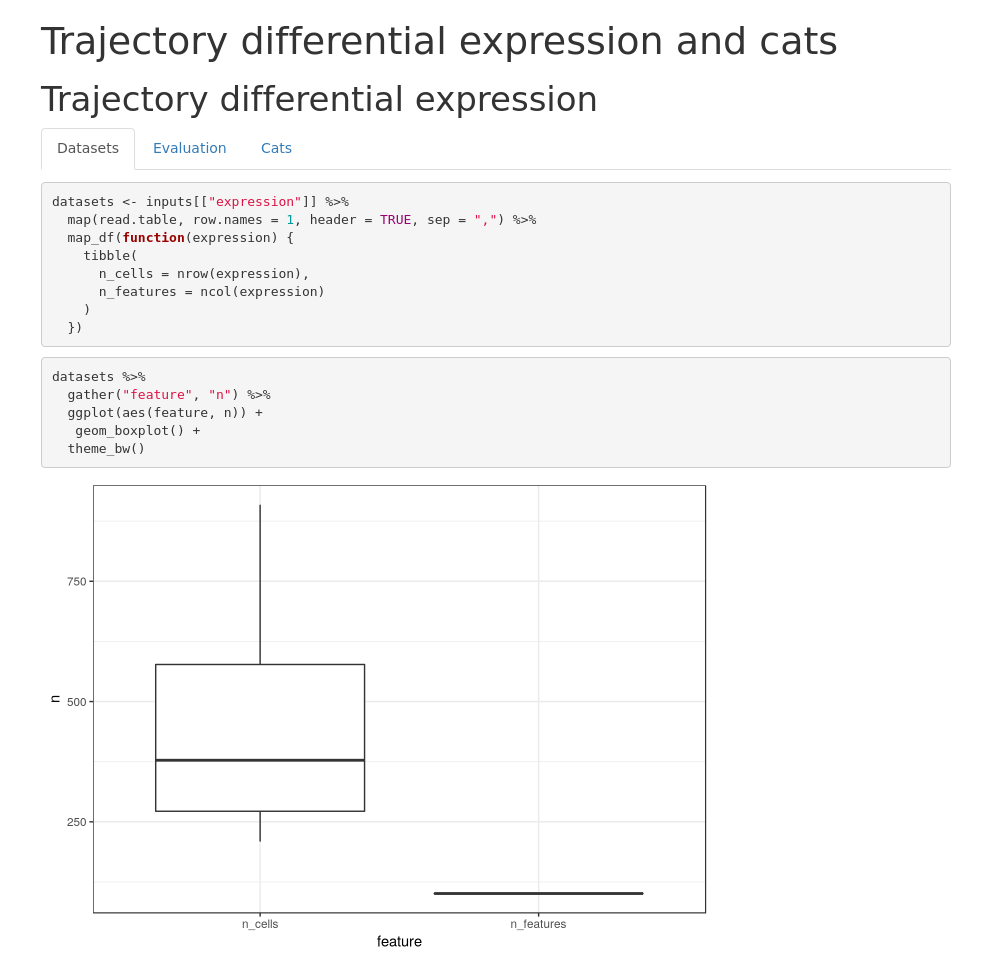
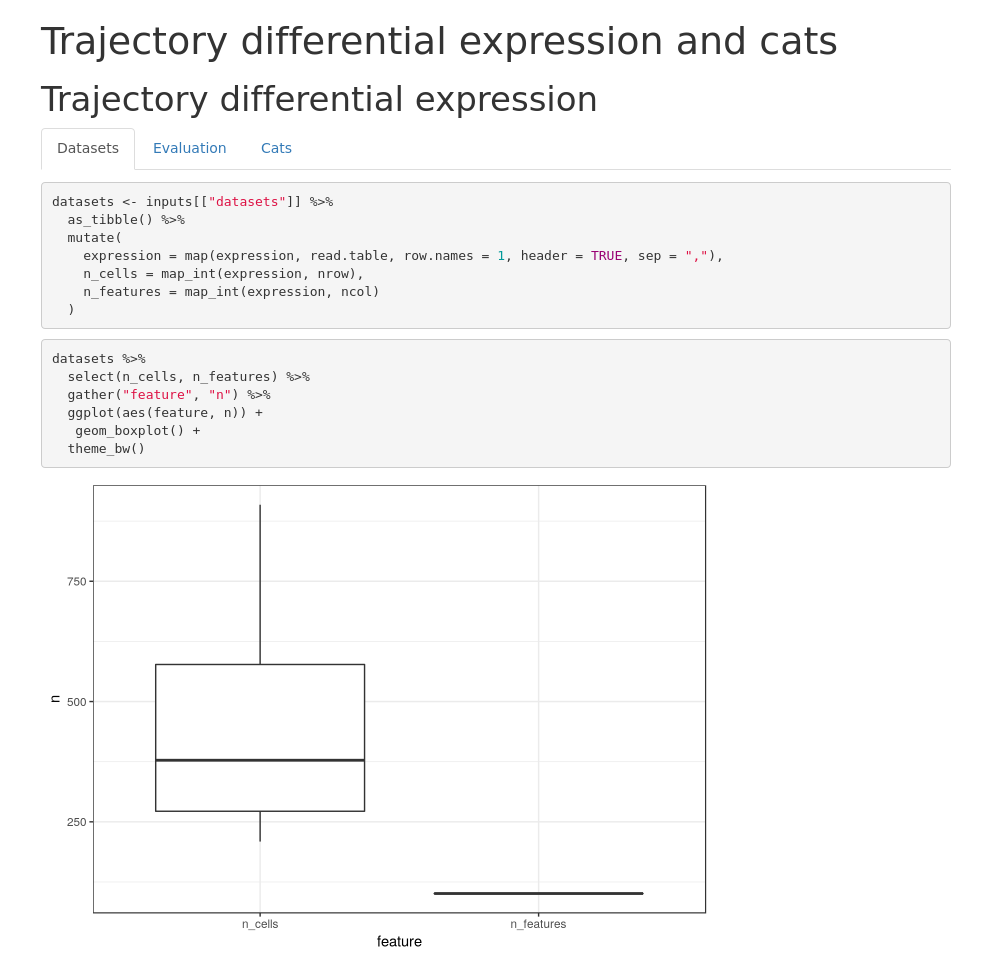
update deployment

diff --git a/komparo/dummy/index.html b/komparo/dummy/index.html
@@ -129,15 +129,15 @@ $(document).ready(function () {
 <h1>Trajectory differential expression</h1>
 <div id="datasets" class="section level2">
 <h2>Datasets</h2>
-<pre class="r"><code>datasets &lt;- inputs[[&quot;expression&quot;]] %&gt;% 
-  map(read.table, row.names = 1, header = TRUE, sep = &quot;,&quot;) %&gt;% 
-  map_df(function(expression) {
-    tibble(
-      n_cells = nrow(expression),
-      n_features = ncol(expression)
-    )
-  })</code></pre>
+<pre class="r"><code>datasets &lt;- inputs[[&quot;datasets&quot;]] %&gt;% 
+  as_tibble() %&gt;% 
+  mutate(
+    expression = map(expression, read.table, row.names = 1, header = TRUE, sep = &quot;,&quot;),
+    n_cells = map_int(expression, nrow),
+    n_features = map_int(expression, ncol)
+  )</code></pre>
 <pre class="r"><code>datasets %&gt;% 
+  select(n_cells, n_features) %&gt;% 
   gather(&quot;feature&quot;, &quot;n&quot;) %&gt;% 
   ggplot(aes(feature, n)) +
    geom_boxplot() +
@@ -146,17 +146,19 @@ $(document).ready(function () {
 </div>
 <div id="evaluation" class="section level2">
 <h2>Evaluation</h2>
-<pre class="r"><code>scores &lt;- 
-  tibble(
-    accuracy = map_dbl(inputs[[&quot;accuracy&quot;]], jsonlite::read_json, simplifyVector = TRUE)
-)
+<pre class="r"><code>scores &lt;- inputs$scores %&gt;% 
+  as_tibble() %&gt;% 
+  mutate(
+    accuracy = map_dbl(accuracy, jsonlite::read_json, simplifyVector = TRUE)
+  )
 
 scores %&gt;% 
+  select(accuracy) %&gt;% 
   gather(&quot;metric&quot;, &quot;value&quot;) %&gt;% 
   ggplot(aes(metric, value)) +
     geom_boxplot() +
     theme_bw()</code></pre>
[2 lines of base64/hex data omitted]
 </div>
 <div id="cats" class="section level2">
 <h2>Cats</h2>
